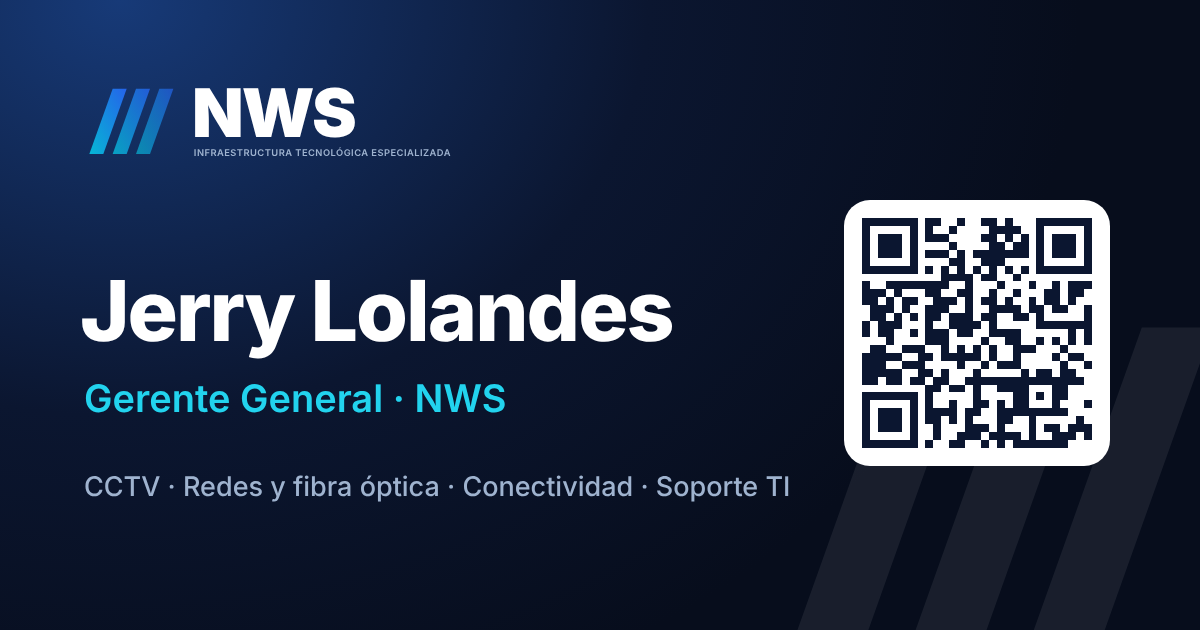
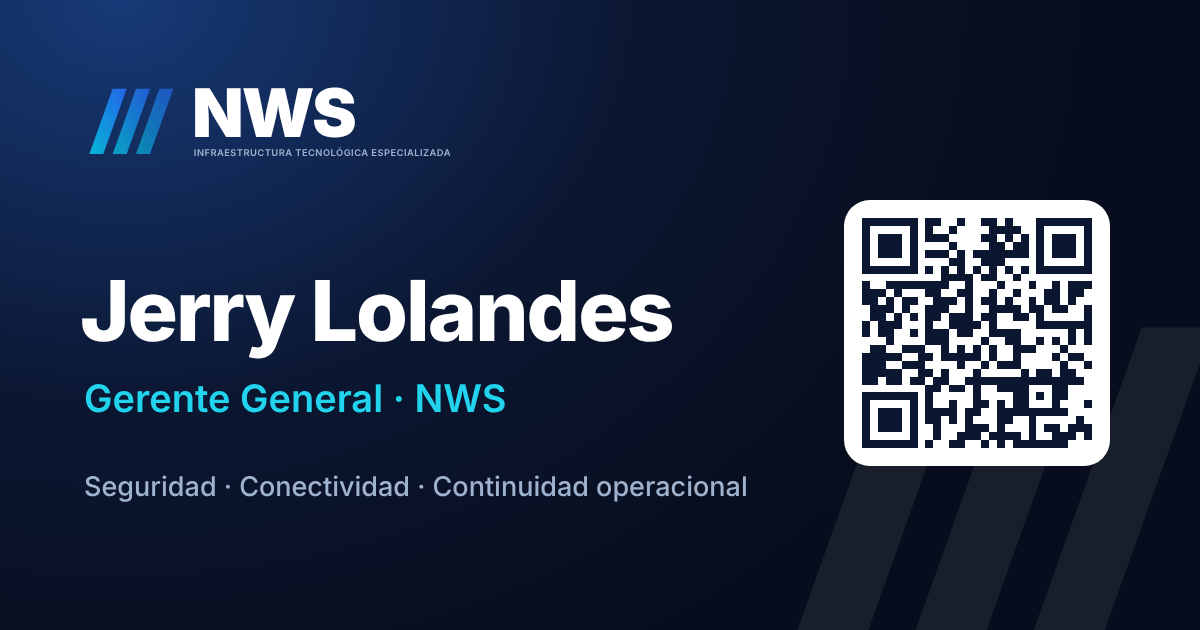
Frase de marca: Seguridad · Conectividad · Continuidad operacional
Claude-Session: https://claude.ai/code/session_0111TEJHksyg6RN8UCqvx2WY

Changed region(s): [[0.0617, 0.754, 0.6783, 0.8143]]

diff --git a/jerry/index.html b/jerry/index.html
@@ -4,11 +4,11 @@
 <meta charset="utf-8">
 <meta name="viewport" content="width=device-width,initial-scale=1,viewport-fit=cover">
 <title>Jerry Lolandes · NWS</title>
-<meta name="description" content="Gerente General de NetWatch Solutions (NWS): CCTV, redes, fibra óptica, conectividad y soporte TI para la industria.">
+<meta name="description" content="Gerente General de NetWatch Solutions (NWS): seguridad, conectividad y continuidad operacional para la industria.">
 <meta name="theme-color" content="#070d1c">
 <meta property="og:type" content="profile">
 <meta property="og:title" content="Jerry Lolandes · Gerente General NWS">
-<meta property="og:description" content="CCTV, redes, fibra óptica, conectividad y soporte TI para la industria. Toca para guardar mi contacto.">
+<meta property="og:description" content="Seguridad, conectividad y continuidad operacional para la industria. Toca para guardar mi contacto.">
 <meta property="og:image" content="https://portal.nws.cl/jerry/vista.png">
 <meta property="og:url" content="https://portal.nws.cl/jerry/">
 <link rel="icon" href="logo-oscuro.svg">
@@ -127,7 +127,7 @@ footer a{color:var(--sub);text-decoration:none}
 <script>
 const url = 'https://portal.nws.cl/jerry/';
 async function compartir() {
-  const datos = { title: 'Jerry Lolandes · NWS', text: 'Jerry Lolandes, Gerente General de NWS (CCTV, redes y conectividad).', url };
+  const datos = { title: 'Jerry Lolandes · NWS', text: 'Jerry Lolandes, Gerente General de NWS: seguridad, conectividad y continuidad operacional.', url };
   try {
     if (navigator.share) { await navigator.share(datos); return; }
     await navigator.clipboard.writeText(url);

diff --git a/jerry/firma.html b/jerry/firma.html
@@ -33,7 +33,7 @@ ol{margin:0;padding-left:20px;color:#334155;font-size:14px;line-height:1.6}
       <div style="color:#2563eb;font-weight:bold">Gerente General · NetWatch Solutions</div>
       <div style="padding-top:6px;color:#334155">Cel. <a href="tel:+56993275874" style="color:#334155;text-decoration:none">+56 9 9327 5874</a> &nbsp;|&nbsp; <a href="mailto:jlolandes@nws.cl" style="color:#334155;text-decoration:none">jlolandes@nws.cl</a></div>
       <div style="color:#334155"><a href="https://www.nws.cl" style="color:#2563eb;text-decoration:none;font-weight:bold">www.nws.cl</a> &nbsp;|&nbsp; Huechuraba, Santiago</div>
-      <div style="padding-top:6px;font-size:11px;color:#64748b">CCTV · Redes y fibra óptica · Conectividad · Voceo IP · Soporte TI</div>
+      <div style="padding-top:6px;font-size:11px;color:#64748b">Seguridad, conectividad y continuidad operacional</div>
       <div style="padding-top:4px;font-size:11px"><a href="https://portal.nws.cl/jerry/" style="color:#0891b2;text-decoration:none;font-weight:bold">Ver mi tarjeta digital →</a></div>
     </td>
   </tr>
